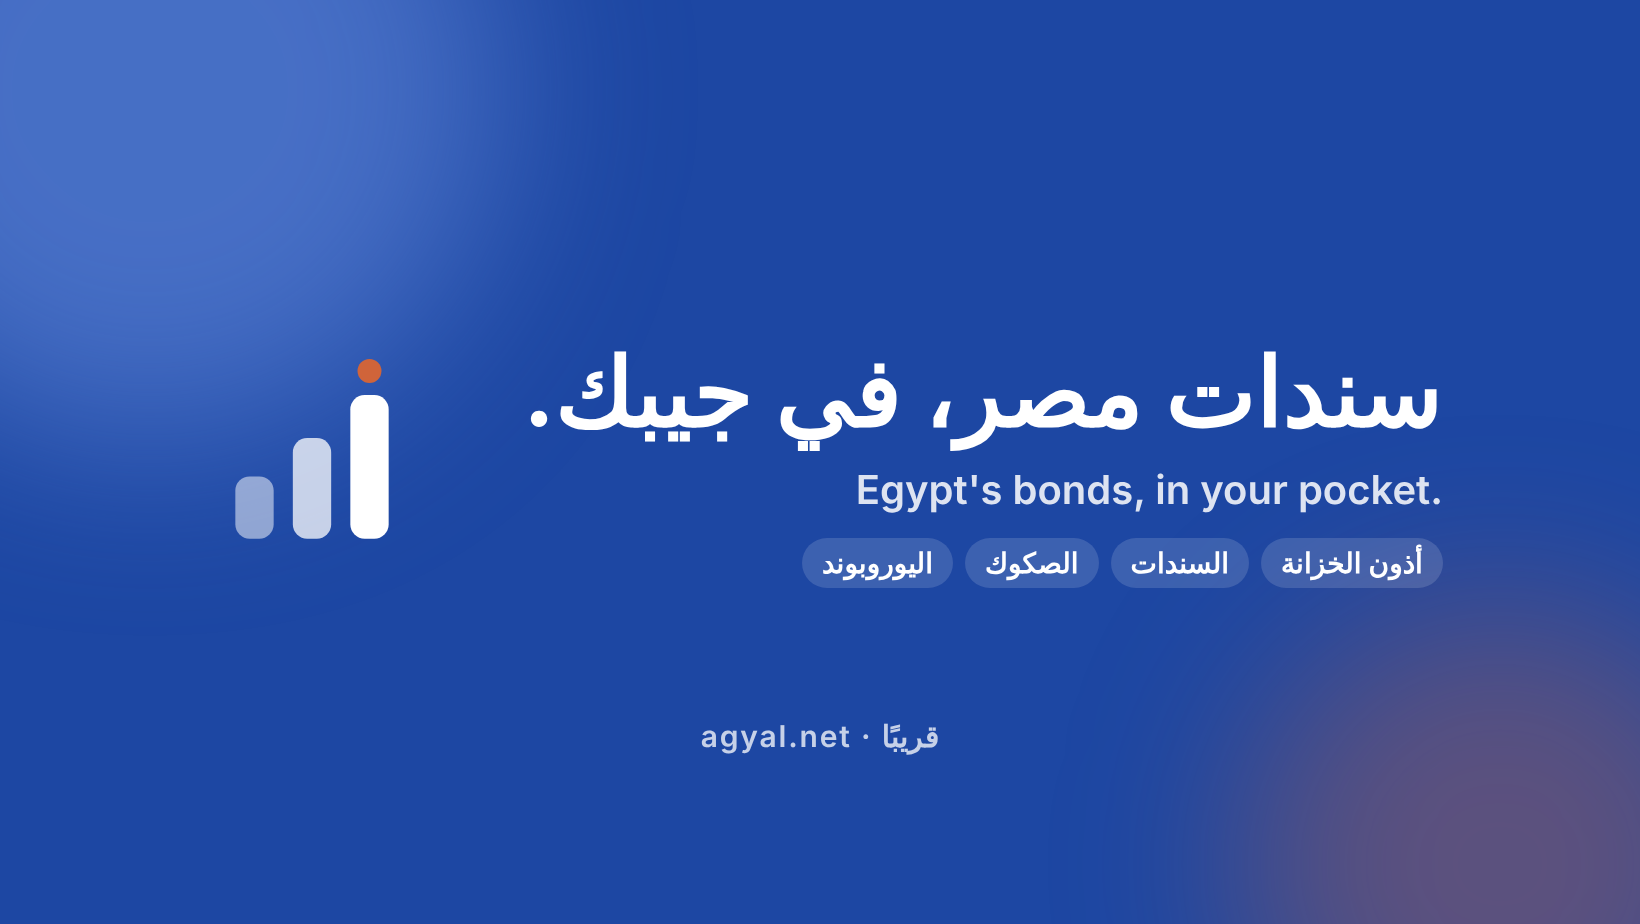
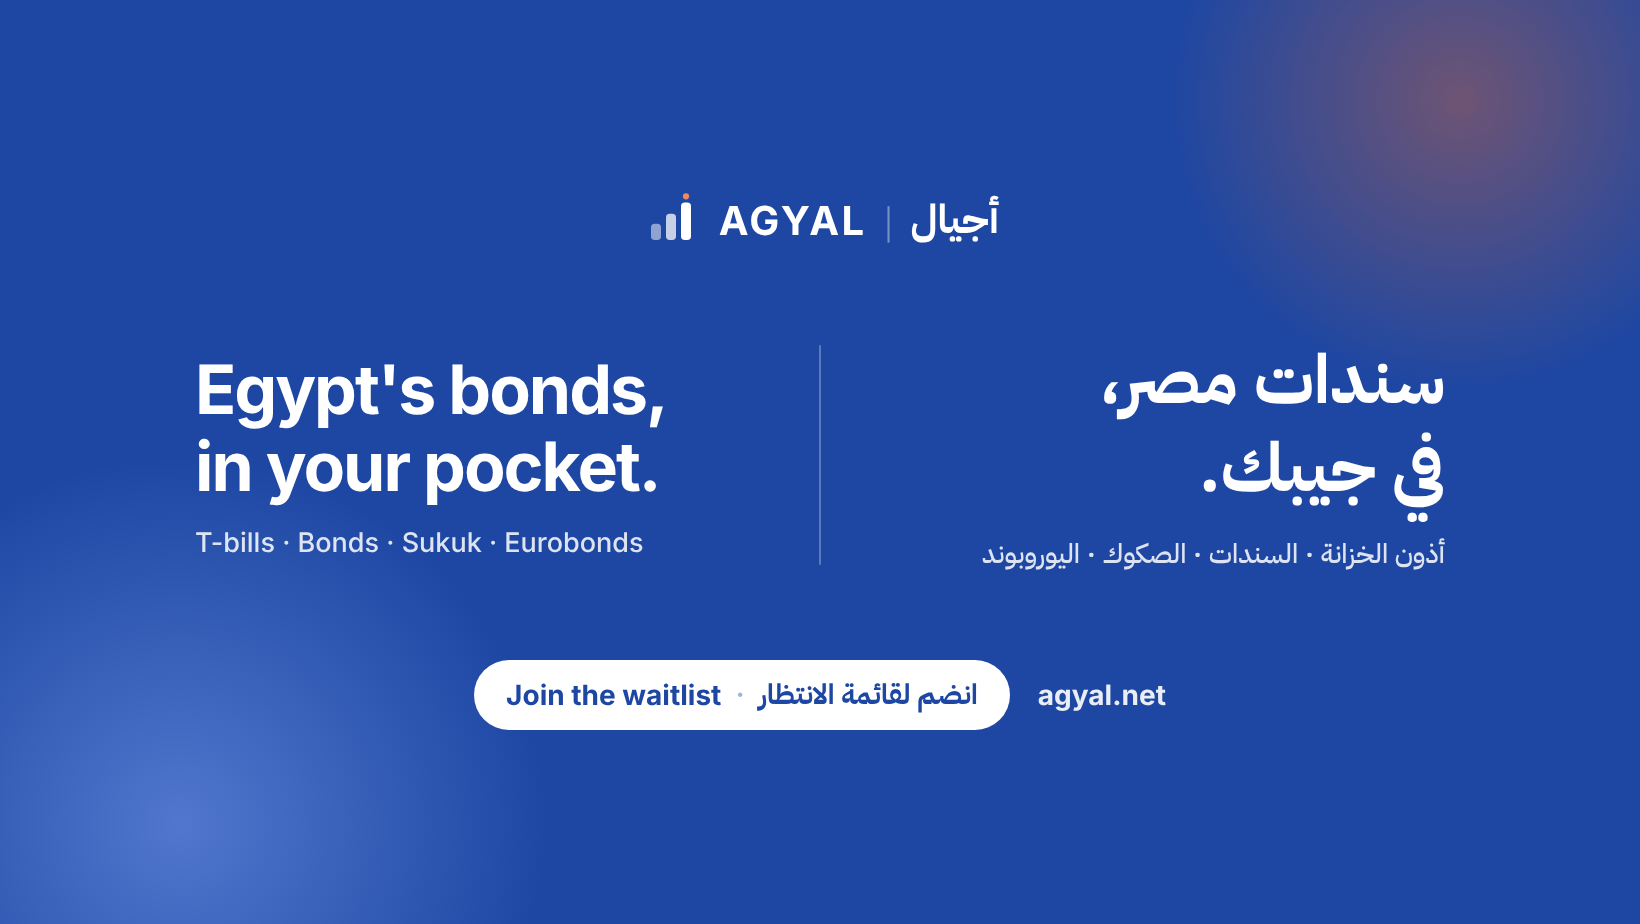
Bilingual Facebook cover in the link-preview style, listed in admin Brand
- English and Arabic side by side as equals, logo on top, join pill below
- Content kept in the band computers show and clear of the profile photo
- scripts/brand/render-cover.mjs regenerates it

Claude-Session: https://claude.ai/code/session_018HpTihkgzxcmS17jUDXszk

diff --git a/src/app/admin/page.tsx b/src/app/admin/page.tsx
@@ -331,6 +331,7 @@ const BRAND_FILES: { file: string; label: string; use: string; dark?: boolean }[
   { file: "/brand/agyal-profile-1024.png", label: "Profile picture 1024×1024", use: "Instagram, Facebook, LinkedIn, X, WhatsApp" },
   { file: "/og/og-en.png", label: "Link preview, English (1200×630)", use: "Shown when agyal.net/en is shared" },
   { file: "/og/og-ar.png", label: "Link preview, Arabic (1200×630)", use: "Shown when agyal.net/ar is shared" },
+  { file: "/brand/agyal-facebook-cover.png", label: "Facebook cover, English and Arabic (1640×924)", use: "Facebook Page cover; text sits in the middle band computers show" },
 ];
 const BRAND_MOTION: { file: string; label: string; use: string; tall?: boolean; poster?: string }[] = [
   { file: "/brand/motion/agyal-logo-vertical-blue.mp4", label: "Vertical, with tagline (MP4, 5s)", use: "TikTok, Reels, Stories, YouTube Shorts (1080×1920)", tall: true, poster: "/brand/motion/agyal-logo-vertical-blue-poster.png" },
